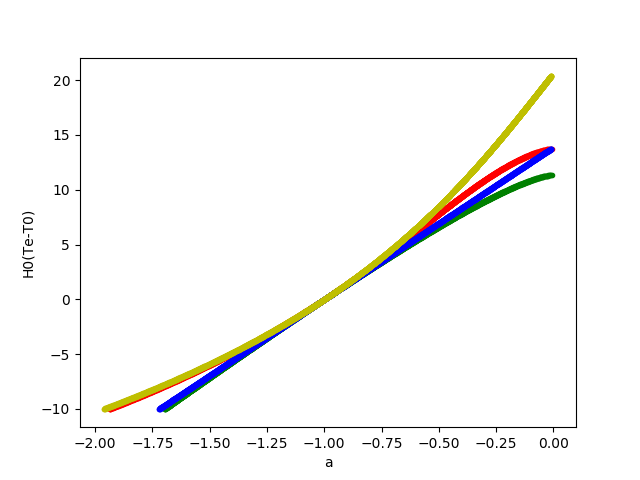
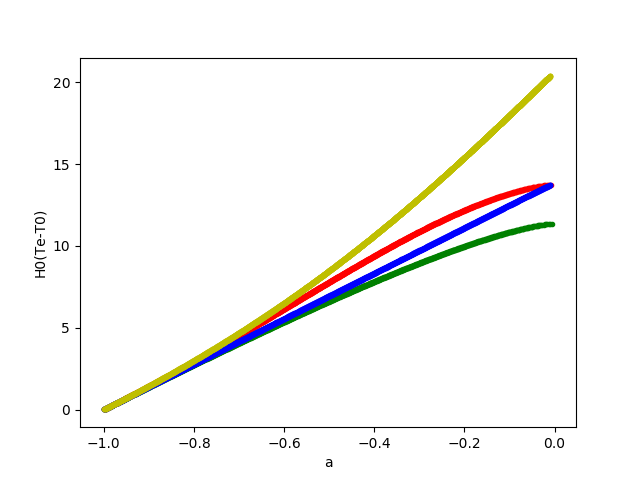
Alterado calculo evolução

diff --git a/Models+Evolution.py b/Models+Evolution.py
@@ -27,7 +27,6 @@ def getE(a, mat, rad, lamb):
 
 # In[11]:
 
-# Run simulation backward from present day until scale factor is < 0.01
 def expansionSim(Em, Er, El, cor, title):
     To = 0.0
     a0 = 1.0
@@ -40,14 +39,14 @@ def expansionSim(Em, Er, El, cor, title):
         plt.scatter(-a0, -To/1.0e9, marker=".", color=cor)
         
 
-    To = 0.0
-    a0 = 1.0
-    He = H0
-    while To < 1.0e10:
-        He = He + Te*-4.0/3.0*pi*G*getE(a0, Em, Er, El)
-        a0 += Te*He
-        To += Te
-        plt.scatter(-a0, -To/1.0e9, marker=".", color=cor)
+#    To = 0.0
+#    a0 = 1.0
+#    He = H0
+#    while To < 1.0e10:
+#        He = He + Te*-4.0/3.0*pi*G*getE(a0, Em, Er, El)
+#        a0 += Te*He
+#        To += Te
+#        plt.scatter(-a0, -To/1.0e9, marker=".", color=cor)
         
 
 
